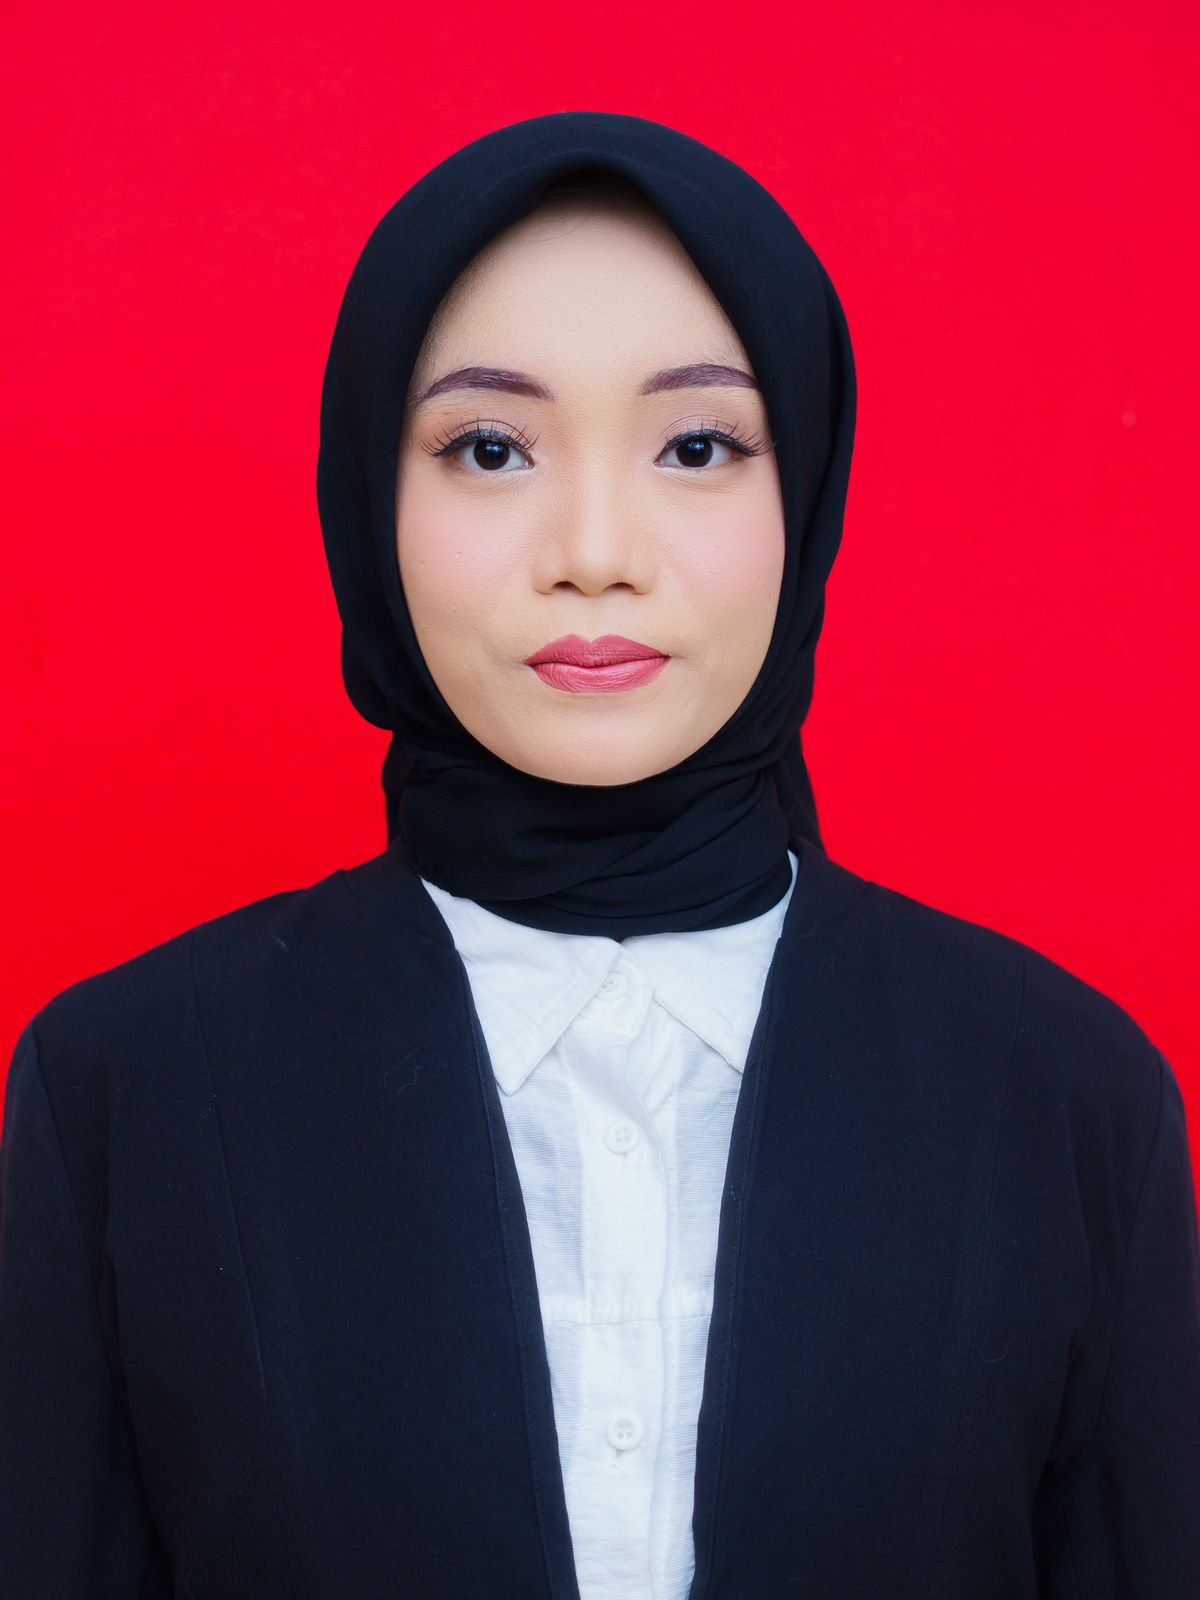
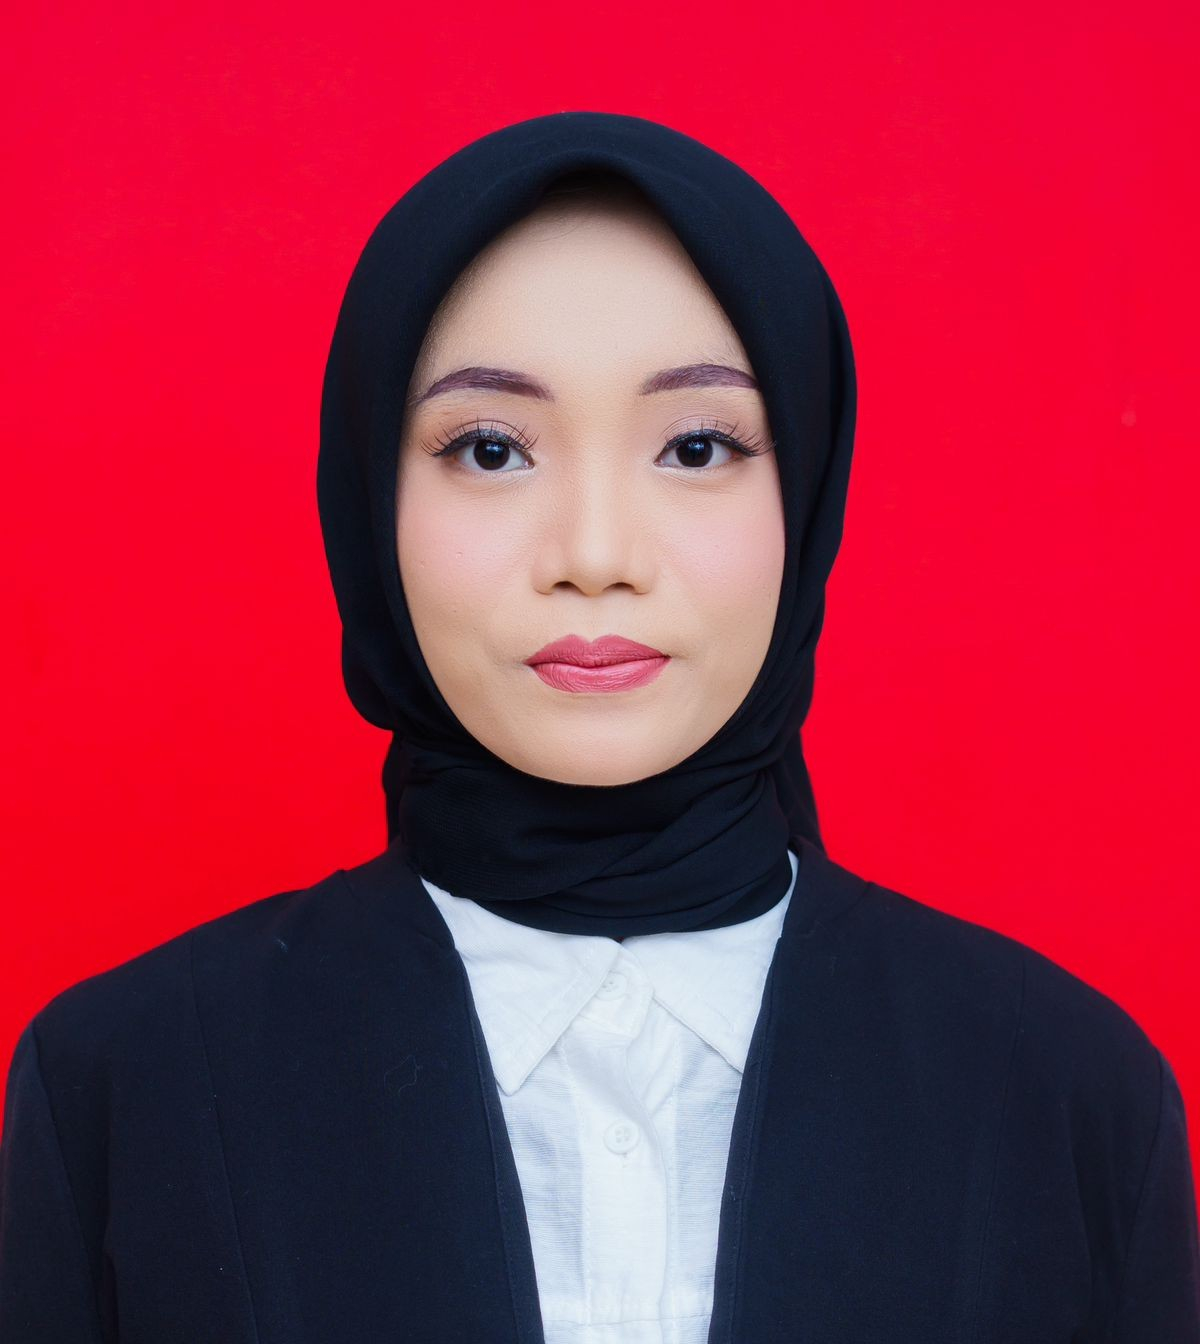
Changing profile bg

diff --git a/index.html b/index.html
@@ -38,7 +38,7 @@
     <div class="d-flex flex-column">
 
       <div class="profile">
-        <img src="assets/img/profile.jpeg" alt="" class="img-fluid rounded-circle">
+        <img src="assets/img/profile-removebg-preview.png" alt="" class="img-fluid rounded-circle">
         <h1 class="text-light"><a href="index.html">Adindah Um Kaltzum</a></h1>
         <!-- <div class="social-links mt-3 text-center">
           <a href="https://www.linkedin.com/in/salma-rosita-366090282" target="_blank" class="linkedin"><i class="bx bxl-linkedin"></i></a>
@@ -84,7 +84,7 @@
 
         <div class="row">
           <div class="col-lg-4" data-aos="fade-right">
-            <img src="assets/img/profile.jpeg" class="img-fluid" alt="">
+            <img src="assets/img/profile-removebg-preview.png" class="img-fluid" alt="">
           </div>
           <div class="col-lg-8 pt-4 pt-lg-0 content" data-aos="fade-left">
             <h3>Salma Rosita</h3>
